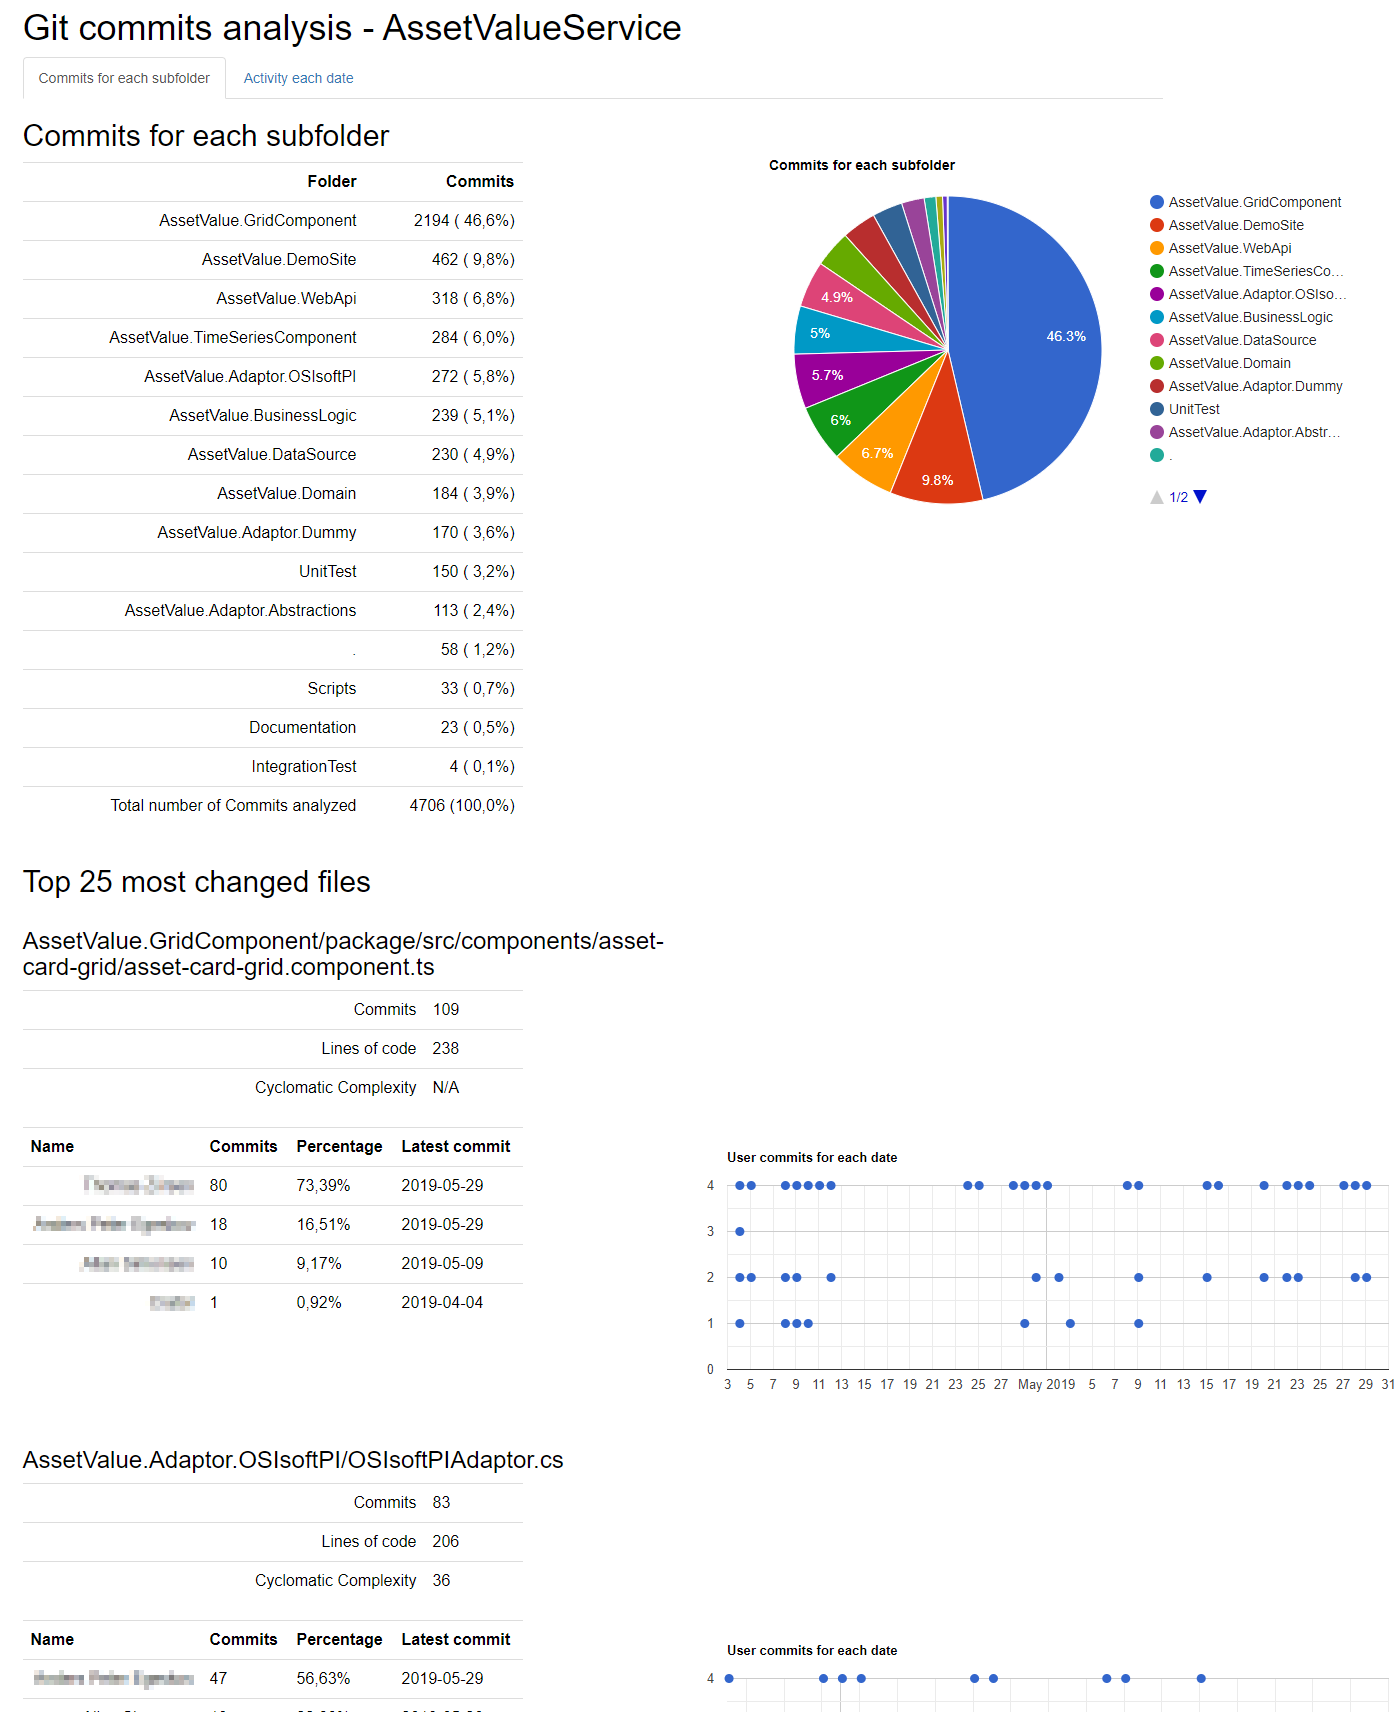
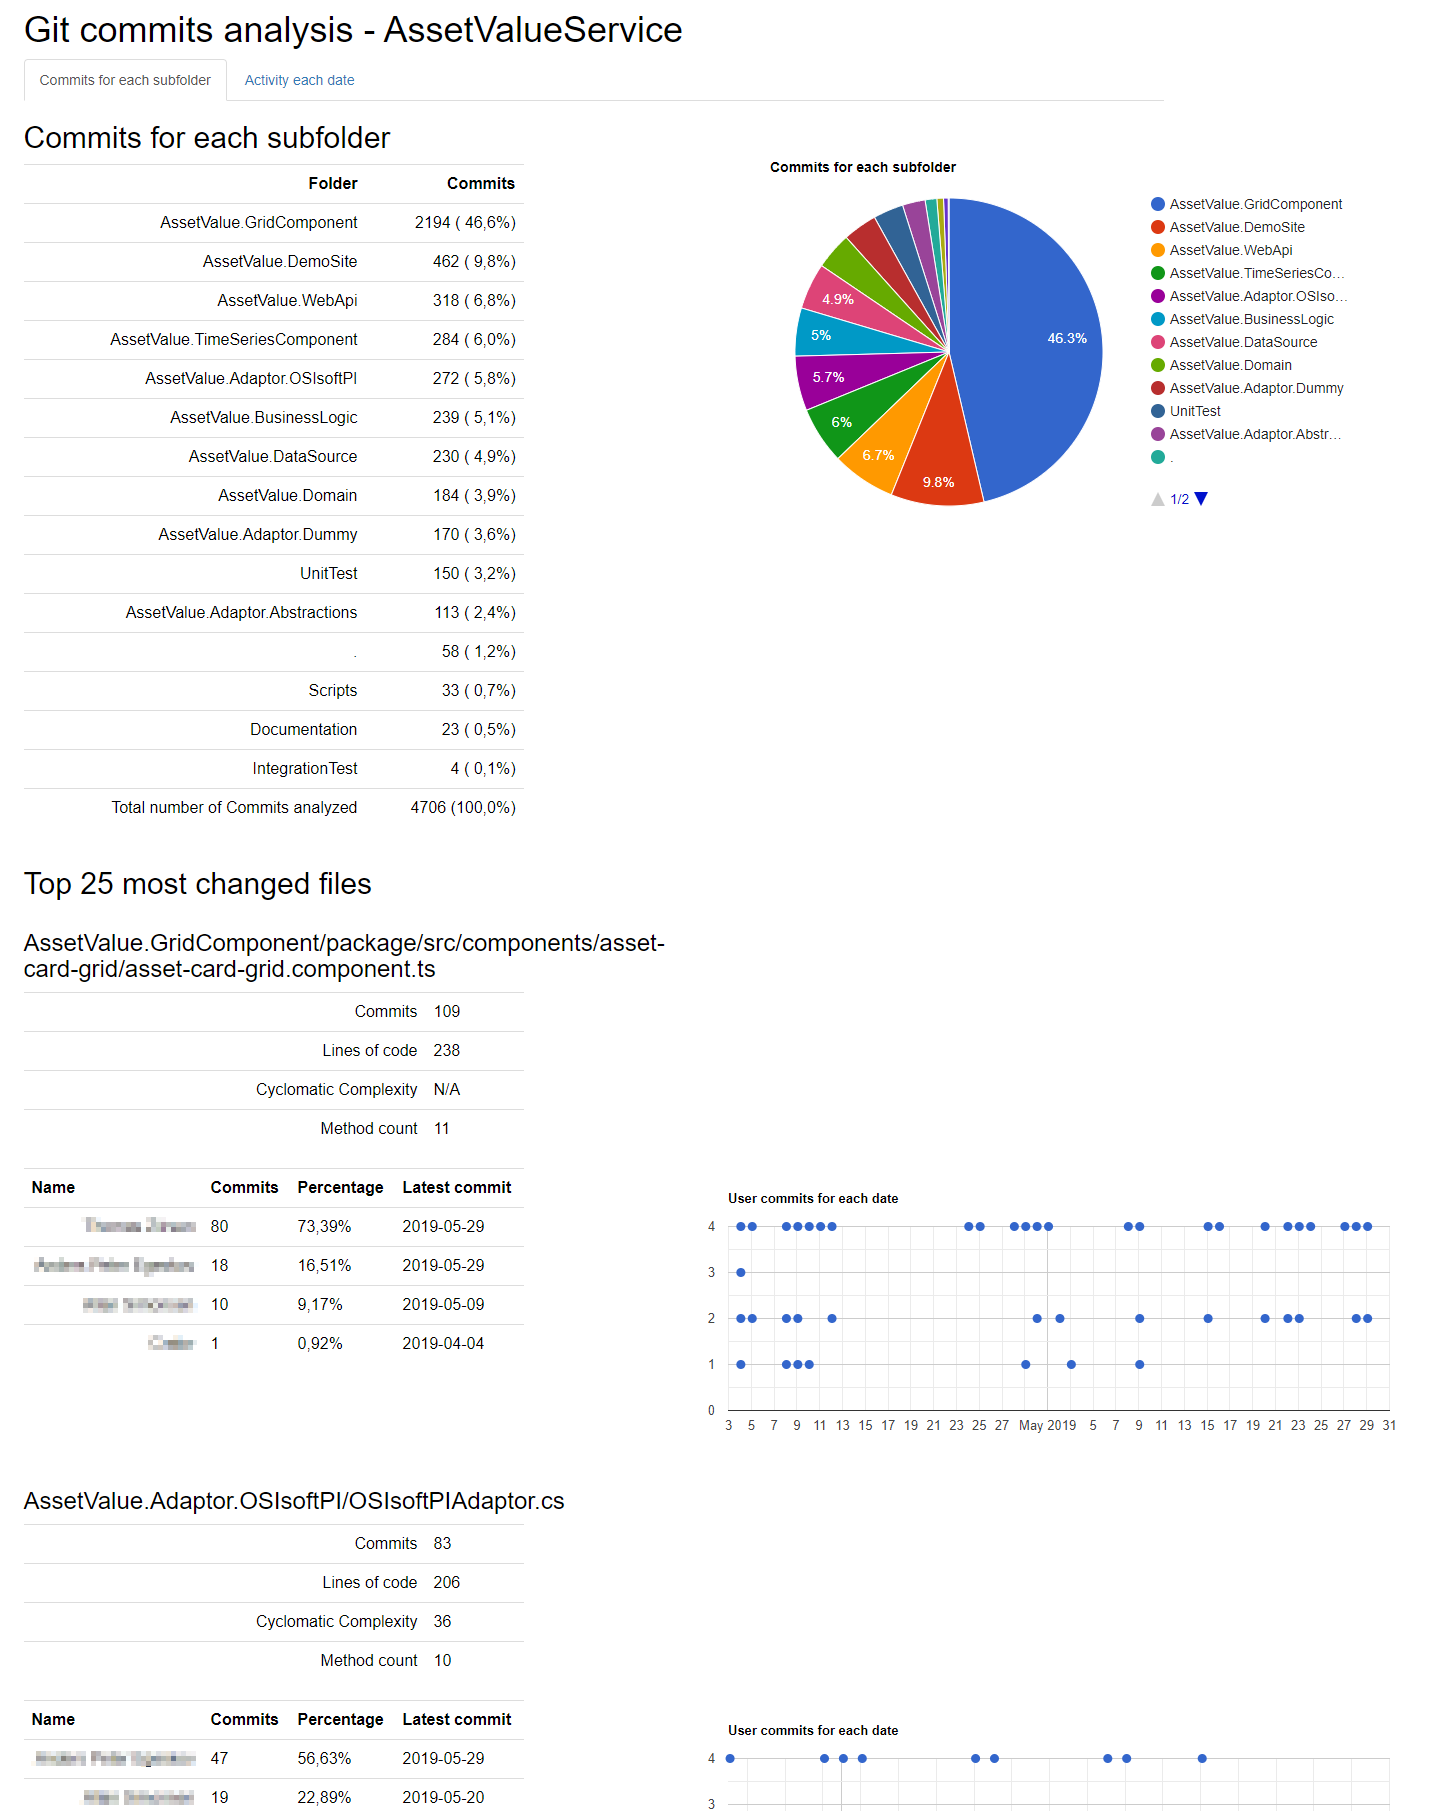
Updated Readme.md

diff --git a/README.md b/README.md
@@ -66,6 +66,8 @@ The calculation of the Cyclomatic Complexity i found over at [Jakob Reimers Arch
 
 [Newtonsoft.Json](https://www.nuget.org/packages/Newtonsoft.Json/) for generating the Json dump of the analysis data.
 
+[TypeScriptAST](https://github.com/ToCSharp/TypeScriptAST) for counting methods and functions in Typescript files.
+
 [Google charts](https://developers.google.com/chart) for displaying the pie chart and the scatter charts in the HTML report.
 
 [Bootstrap](https://getbootstrap.com/docs/3.4/getting-started/) for styling the HTML report.
